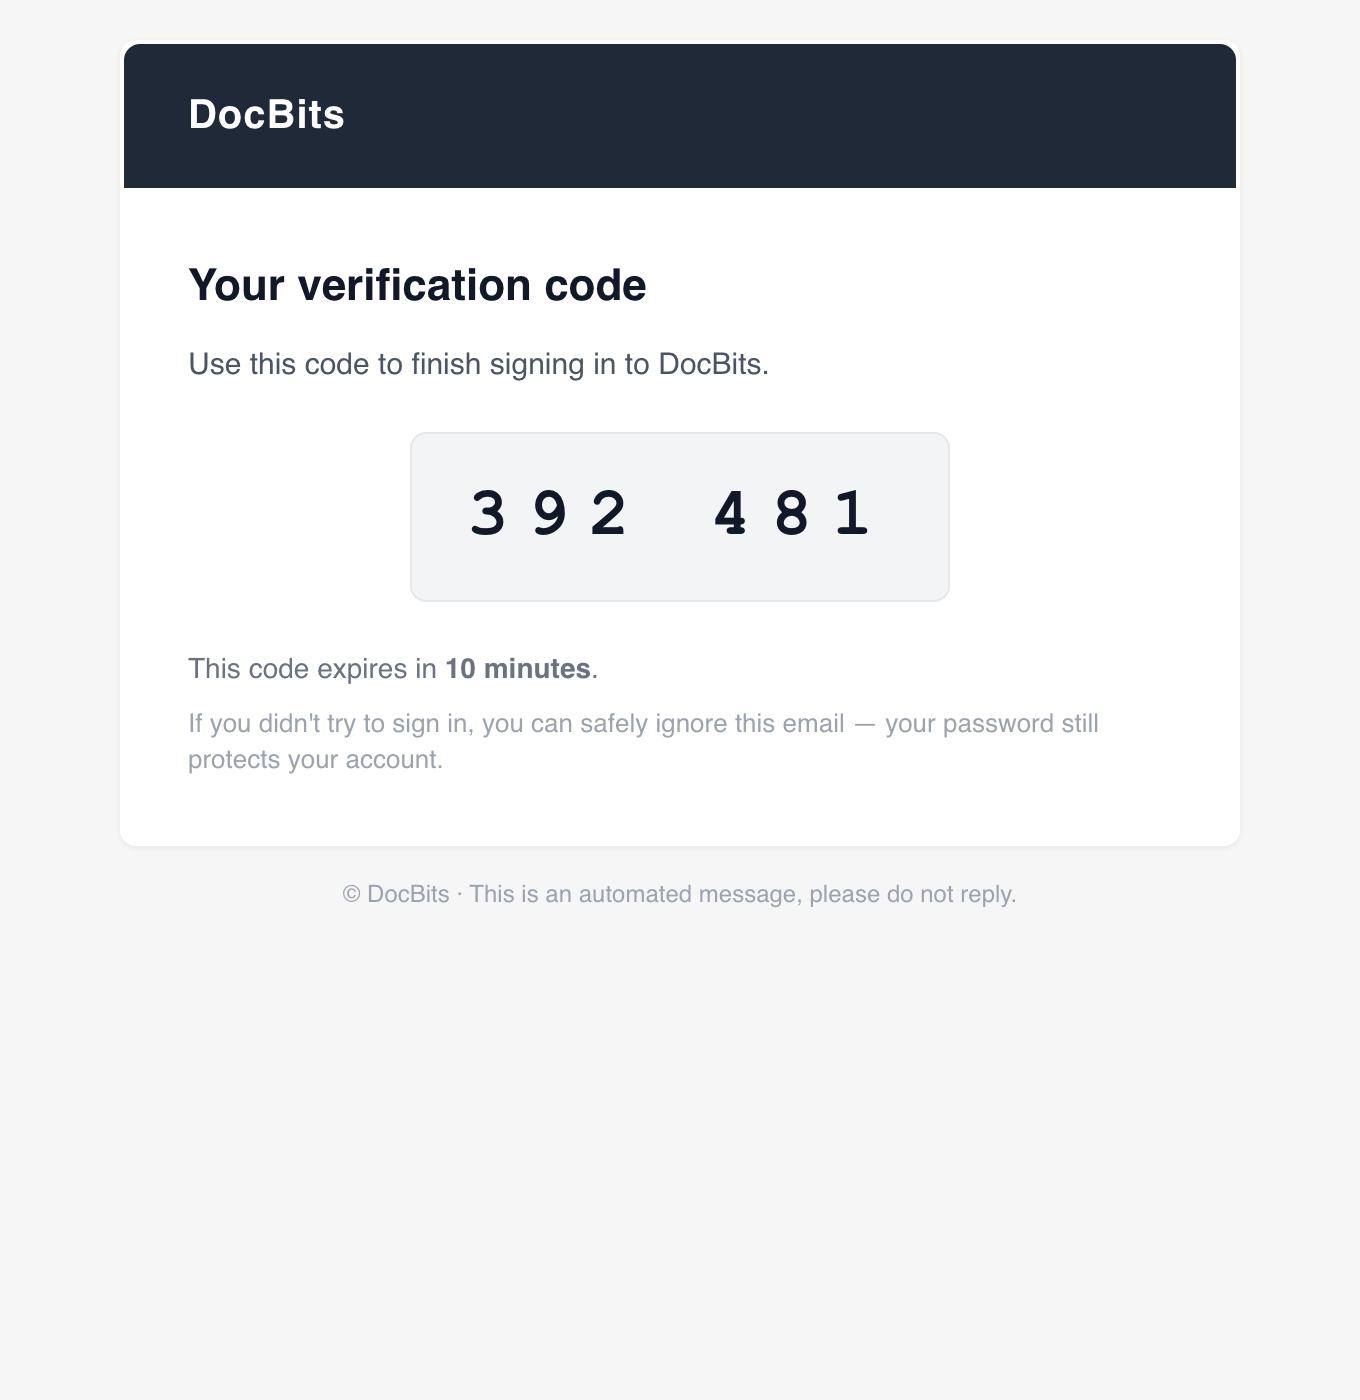
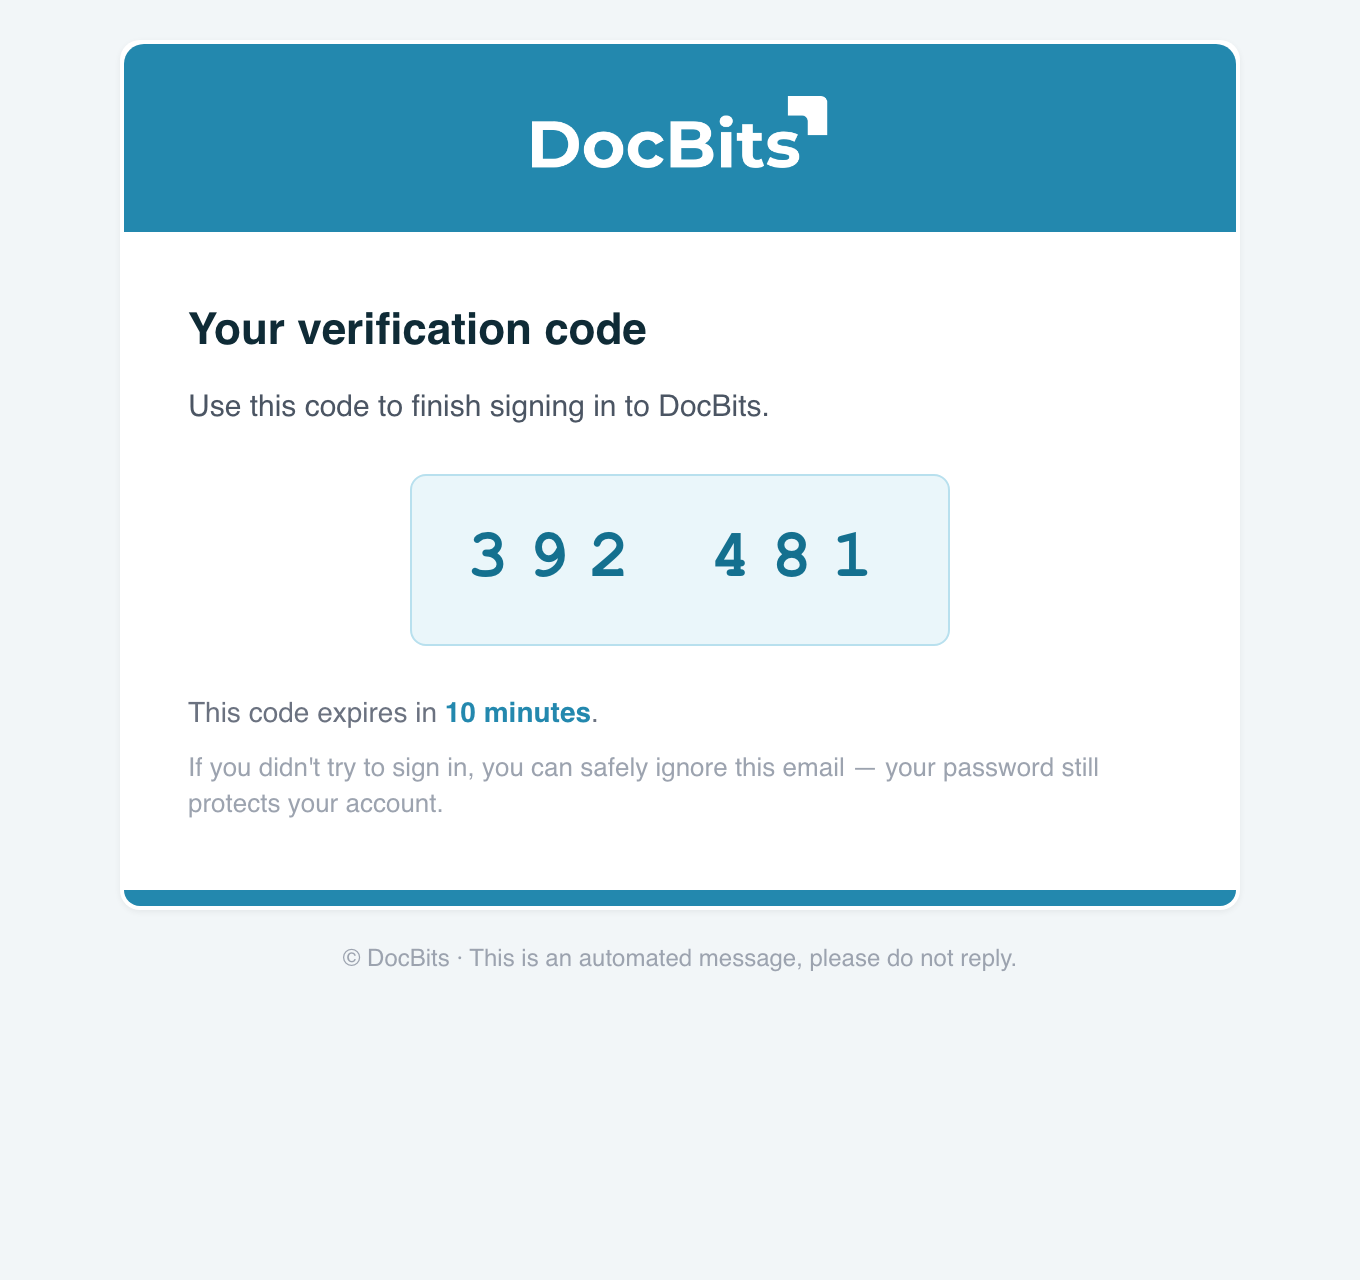
docs(mfa): branded OTP email + challenge & adoption screenshots (#36)
- Branded OTP email (DocBits teal header + white logo) replaces the old email shot.
- Second-factor challenge screen added to the end-user guide.
- Dedicated MFA adoption report screenshot added to the admin guide.

https://claude.ai/code/session_01Xiihwf4CzUQpUCgaToUdTL

diff --git a/readme/overview-and-basics/two-factor-authentication.md b/readme/overview-and-basics/two-factor-authentication.md
@@ -55,9 +55,11 @@ Backup codes are shown only at the moment they are generated. DocBits cannot sho
     <figure><img src="../.gitbook/assets/mfa-login.png" alt="The DocBits login screen"><figcaption><p>The login screen. You can also sign in without a password using <strong>Sign in with a passkey</strong>.</p></figcaption></figure>
 2. DocBits asks for your second factor. Choose your method:
    * **Authenticator** — type the current 6-digit code from your app.
-   * **Email** — click to receive a code by email, then type it in.
-   * **Passkey** — confirm with Touch ID / Windows Hello / your key.
+   * **Email** — click **Email me a code** to receive a code by email, then type it in.
+   * **Passkey** — click **Use a passkey** and confirm with Touch ID / Windows Hello / your key.
    * **Backup code** — if you cannot use your usual method.
+
+    <figure><img src="../.gitbook/assets/mfa-challenge.png" alt="The second-factor challenge screen"><figcaption><p>After your password, DocBits asks for your second factor. Switch method with <strong>Use a passkey</strong> or <strong>Email me a code</strong>, and optionally trust the device for 30 days.</p></figcaption></figure>
 3. On success you are signed in.
 
 ### What the email code looks like

diff --git a/readme/administration-and-setup/settings/global-settings/company-information/two-factor-authentication.md b/readme/administration-and-setup/settings/global-settings/company-information/two-factor-authentication.md
@@ -34,6 +34,8 @@ Below the toggle, the **MFA adoption** panel shows how widely 2FA is used in you
 * how many of your members have 2FA enabled (e.g. *0 of 74 members*),
 * a per-factor breakdown — **Authenticator**, **Email**, and **Passkey**.
 
+<figure><img src="../../../../.gitbook/assets/mfa-adoption-report.png" alt="The MFA adoption report"><figcaption><p>The MFA adoption report: overall percentage, enrolled members, and a per-factor breakdown.</p></figcaption></figure>
+
 Use it to gauge readiness: drive adoption up first, then switch the requirement on with fewer members blocked at the enrollment step.
 
 ## What members see
